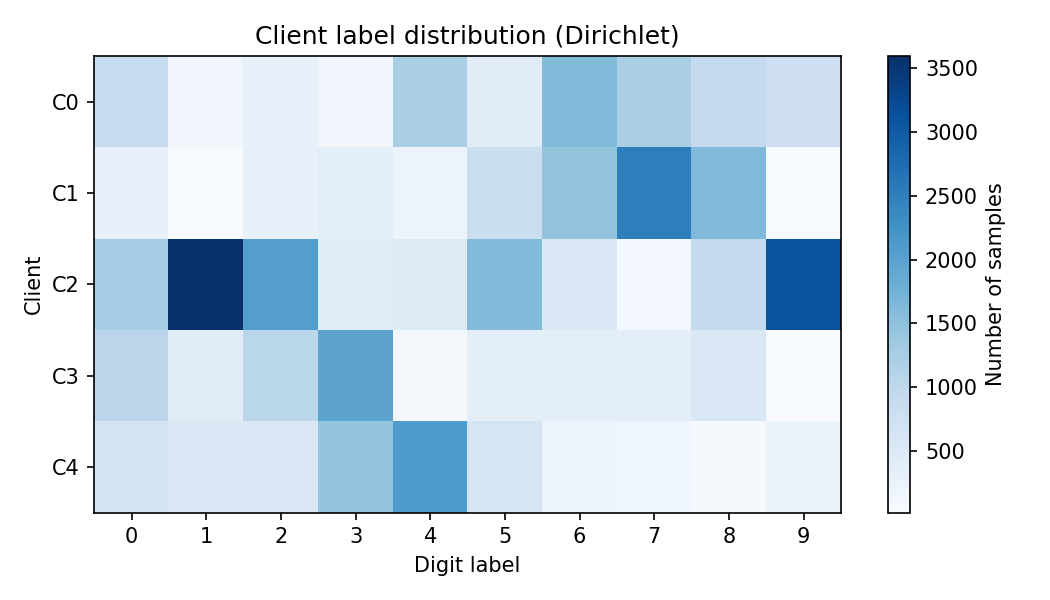
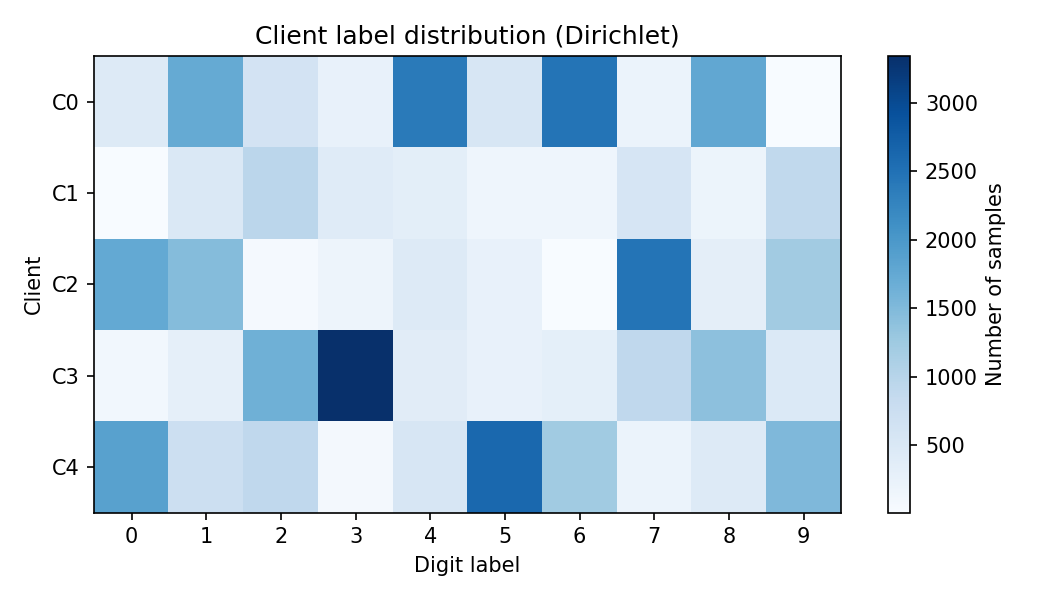
implemented partial participation rate

diff --git a/src/client_training.py b/src/client_training.py
@@ -1,3 +1,4 @@
+import random
 from collections import Counter
 import copy
 import torch
@@ -82,7 +83,7 @@ def run_centralised_ml(number_of_epochs, train_loader, val_loader, test_loader, 
     return losses, val_accuracies
 
 # helper function for running FL algorithms
-def run_fl(number_of_rounds, number_of_clients, epochs, global_model, client_training_loaders, val_loader, test_loader, lr):
+def run_fl(number_of_rounds, number_of_clients, epochs, global_model, client_training_loaders, val_loader, test_loader, lr, participation_rate):
     global_losses = []  # avg client loss per round
     global_val_accuracies = []  # global model val accuracy per round
     start_time = time.time()
@@ -92,8 +93,11 @@ def run_fl(number_of_rounds, number_of_clients, epochs, global_model, client_tra
         client_state_dictionary = []
         number_of_samples = []
         round_losses = []
+        # partial client participation
+        sample_of_clients = max(1, int(number_of_clients * participation_rate))
+        selected_clients = random.sample(range(number_of_clients), sample_of_clients)
         # loop over all clients
-        for client in range(number_of_clients):
+        for client in selected_clients:
             print(f"Client{client + 1}:")
             local_model = copy.deepcopy(global_model)  # copy global model locally
             weights, losses, _ = train_local(model=local_model, train_loader=client_training_loaders[client],

diff --git a/src/overlay/comparison_overlay.py b/src/overlay/comparison_overlay.py
@@ -57,7 +57,7 @@ central_losses, central_val_accs  =  run_centralised_ml(number_of_epochs = NUMBE
                                                       val_loader = val_loader,
                                                       test_loader = test_loader,
                                                       model = model,
-                                                      lr = LR)
+                                                      lr = 0.03)
 
 # Now we need to aggregate the results with FedAvg
 fed_losses, fed_val_accs        =       run_fl(number_of_rounds = NUMBER_OF_ROUNDS,
@@ -67,7 +67,8 @@ fed_losses, fed_val_accs        =       run_fl(number_of_rounds = NUMBER_OF_ROUN
                                               client_training_loaders = client_training_loaders,
                                               val_loader = val_loader,
                                               test_loader = test_loader,
-                                              lr = LR)
+                                              lr = 0.1,
+                                               participation_rate = 1)
 
 # PLOTS
 plot_loss_overlay(central_losses, fed_losses) # loss comparison between ML and FL
